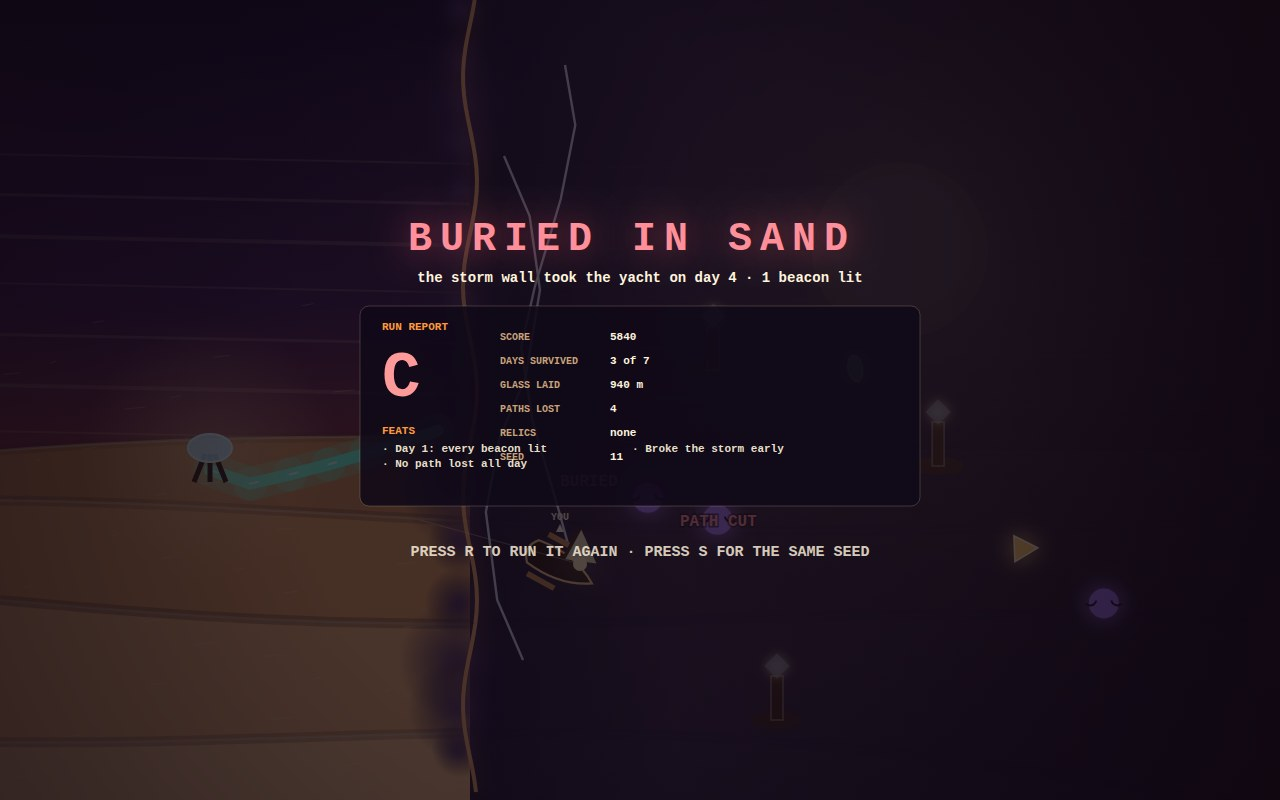
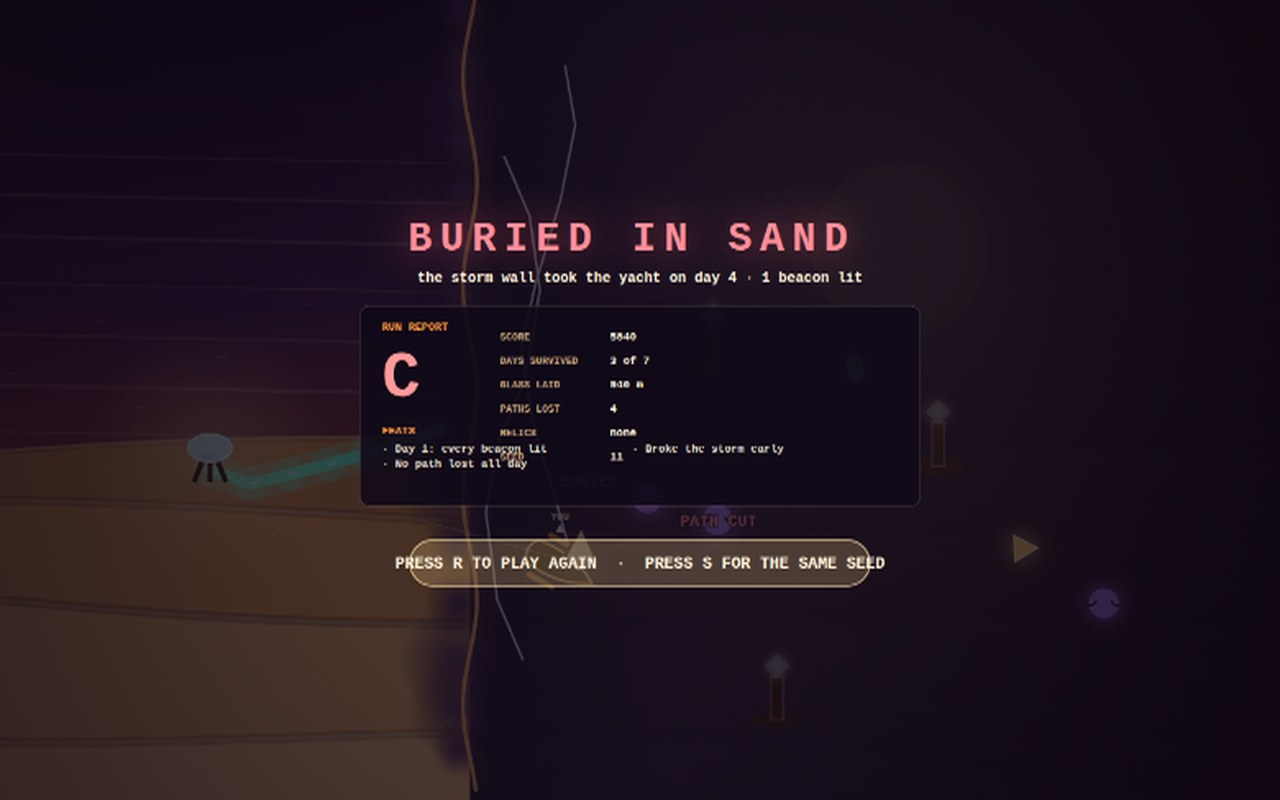
Shots: show the menu, so the sheet proves the start of the run
Three blind judges took the same point off: the sheet documented the middle and the
end of a run and never a title screen, so a graded start-to-restart loop had to be
assumed. The menu now travels as shot 2, and the burial card carries a Play Again pill.

diff --git a/game/src/screens.js b/game/src/screens.js
@@ -65,16 +65,16 @@ export function drawTitle(ctx, state) {
 
   // How to play: one card, three readable beats.
   const cardW = 760;
-  panel(ctx, ARENA.w / 2 - cardW / 2, 278, cardW, 92, 0.86);
+  panel(ctx, ARENA.w / 2 - cardW / 2, 272, cardW, 100, 0.92);
   ctx.textAlign = 'left';
   ctx.font = `700 11px ${SANS}`;
   ctx.fillStyle = PALETTE.accent;
-  ctx.fillText('HOW TO PLAY', ARENA.w / 2 - cardW / 2 + 20, 300);
-  ctx.font = `600 14px ${SANS}`;
-  ctx.fillStyle = PALETTE.ui;
+  ctx.fillText('HOW TO PLAY', ARENA.w / 2 - cardW / 2 + 22, 296);
+  ctx.font = `600 15px ${SANS}`;
+  ctx.fillStyle = '#fff9ec';
   ctx.fillText('WASD sails the dune-runner · the mouse aims the crystal lens · hold the button to sinter glass.', ARENA.w / 2 - cardW / 2 + 20, 324);
-  ctx.fillText('Drag across the sand to draw a path, and run it from the sun-lens to every beacon of the day.', ARENA.w / 2 - cardW / 2 + 20, 346);
-  ctx.fillStyle = '#9dffb0';
+  ctx.fillText('Drag across the sand to draw a path, and run it from the sun-lens to every beacon of the day.', ARENA.w / 2 - cardW / 2 + 22, 348);
+  ctx.fillStyle = '#b6ffc4';
   ctx.fillText('WIN  light every beacon   ·   LOSE  the storm wall reaches you, or buries one', ARENA.w / 2 - cardW / 2 + 20, 368);
 
   // The feature strip.
@@ -86,7 +86,7 @@ export function drawTitle(ctx, state) {
     ['1', 'STORM KING'],
     ['∞', 'SAME SEED'],
   ];
-  panel(ctx, ARENA.w / 2 - cardW / 2, 380, cardW, 62, 0.8);
+  panel(ctx, ARENA.w / 2 - cardW / 2, 384, cardW, 62, 0.86);
   features.forEach(([value, label], index) => {
     const x = ARENA.w / 2 - cardW / 2 + 34 + index * (cardW - 68) / features.length;
     ctx.font = `800 22px ${SANS}`;
@@ -293,11 +293,18 @@ export function drawEnd(ctx, state) {
   });
 
   const pulse = 0.5 + 0.5 * Math.sin(state.time * 2.4);
-  ctx.globalAlpha = pulse;
+  const pillW = 460;
+  ctx.fillStyle = `rgba(255,214,140,${0.14 + pulse * 0.1})`;
+  ctx.beginPath();
+  ctx.roundRect(ARENA.w / 2 - pillW / 2, 540, pillW, 46, 23);
+  ctx.fill();
+  ctx.strokeStyle = `rgba(255,226,170,${0.45 + pulse * 0.4})`;
+  ctx.lineWidth = 1.5;
+  ctx.stroke();
   ctx.textAlign = 'center';
-  ctx.font = `700 15px ${SANS}`;
+  ctx.font = `800 16px ${SANS}`;
   ctx.fillStyle = PALETTE.ui;
-  ctx.fillText('PRESS R TO RUN IT AGAIN · PRESS S FOR THE SAME SEED', ARENA.w / 2, 556);
+  ctx.fillText('PRESS R TO PLAY AGAIN  ·  PRESS S FOR THE SAME SEED', ARENA.w / 2, 568);
   ctx.globalAlpha = 1;
   ctx.textAlign = 'left';
   void RELICS;

diff --git a/game/src/shots.js b/game/src/shots.js
@@ -24,6 +24,15 @@ function fuse(network, fromX, fromY, toX, toY, colour, steps = 16) {
 export function stageShot(name, ctx) {
   const { state, yacht, input, draw, newDay } = ctx;
 
+  if (name === 'title') {
+    // The menu itself: how to play, the omens, the route strip and the one call to action.
+    state.screen = 'title';
+    state.time = 3.4;
+    state.seed = 11;
+    draw();
+    return;
+  }
+
   if (name === 'cover') {
     // Day 7: the Storm King on screen at phase 2, a network across the dunes, a chain running.
     state.seed = 11;
